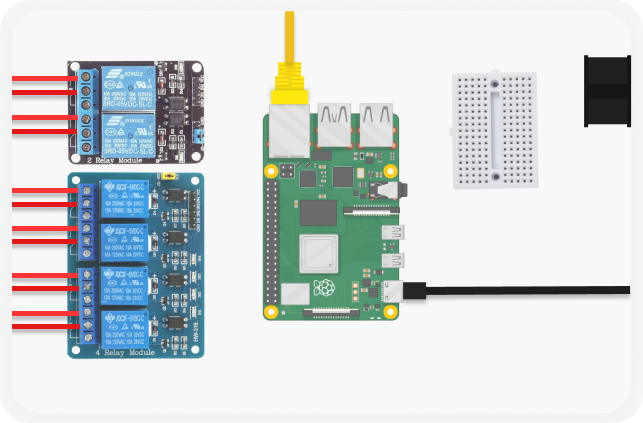
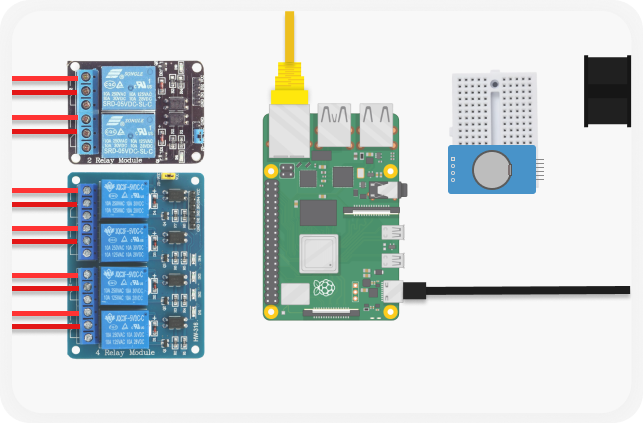
docu RTC added

Changed region(s): [[0.6843, 0.3381, 0.8398, 0.461]]

diff --git a/phsmachine_docu/docs/_page_physical.md b/phsmachine_docu/docs/_page_physical.md
@@ -20,9 +20,7 @@ Once PHS is installed in place. We can now install other components needed by PH
 
 > **NOTE** : Ignore the wires that are pre installed.
 
-<center>
-    <img src="https://senpai-coders.github.io/CAPSTONE-PHS-Machine/_media/phs_box_open.png">
-</center>
+![phs box open](_media/phs_box_open.png)
 
 Once opened. This is what PHS contains. It contains **Relays, Raspberry Pi, Breadboard, & Fan**.
 
@@ -30,40 +28,31 @@ Once opened. This is what PHS contains. It contains **Relays, Raspberry Pi, Brea
 
 PHS has its power adapter which is a **type c**. Pass it through the PHS port holes and connect it to the **C port** of Raspberry Pi.
 
-<center>
-    <img src="https://senpai-coders.github.io/CAPSTONE-PHS-Machine/_media/phs_power.png">
-</center>
+![imgs](_media/phs_power.png)
 
 ## Local Network 
 
 PHS need a **local network** so that the website can be accessable via local network on **any** devices that have a **web browser**. 
 
-<center>
-    <img src="https://senpai-coders.github.io/CAPSTONE-PHS-Machine/_media/network_topo.png">
-</center>
+![imgs](_media/network_topo.png)
+
 
 > **Note** : PHS Doesn't need a Internet, just a router that can function properly to create a local network. But if internet does exist, PHS will enable its feature **notification via email**.
 
 ## Connecting PHS to router
 
-<center>
-    <img src="https://senpai-coders.github.io/CAPSTONE-PHS-Machine/_media/catcable.png">
-</center>
+![imgs](_media/catcable.png)
 
 PHS comes with 1 **ethernet cable**. You can connect this ethernet cable to the router. The router will assign an **IP address** to the PHS once the router & PHS is turned on. This makes the PHS **accessible** from the Local Network
 
-<center>
-    <img src="https://senpai-coders.github.io/CAPSTONE-PHS-Machine/_media/phs_ether.png">
-</center>
+![imgs](_media/phs_ether.png)
 
 Connect the cable to the **Ethernet Port** of the Rasberry Pi and attatch the other end to the one of available **port** on the **Router**.
 
 
 ## Attatching Components / Devices 
 
-<center>
-    <img src="https://senpai-coders.github.io/CAPSTONE-PHS-Machine/_media/phs_relays.png">
-</center>
+![imgs](_media/phs_relays.png)
 
 By default, PHS have **6 relays**. These relays **controls** all the components that the system uses to perform it's duty in resolving heat stress. Components that can be attatch to the relays are devices that can be turn **on** or **off** only. These relay can handle up to **10A 250VAC** or **15A 125VAC**.
 
@@ -72,9 +61,7 @@ By default, PHS have **6 relays**. These relays **controls** all the components 
 
 > **WARNING** : Some of this component may range from **low voltage** to **high voltage**, so please be extra careful.
 
-<center>
-    <img src="https://senpai-coders.github.io/CAPSTONE-PHS-Machine/_media/phs_relay_diag.png">
-</center>
+![imgs](_media/phs_relay_diag.png)
 
 This is how relay works. It has **3 contact terminal** to connect to.
 
@@ -86,51 +73,37 @@ This is how relay works. It has **3 contact terminal** to connect to.
 
 By default, PHS has **2x2 Grid** on it's pov but you can expand it from the settings, each cell call the **solenoid valves** to open when the heat stress originate from one of them. This allows the flow of water to flow and create a **mist** to lower the pigs body temperature. These solenoid valves needs **12V** power to run.
 
-<center>
-    <img src="https://senpai-coders.github.io/CAPSTONE-PHS-Machine/_media/phs_solenoid_attatchment.png">
-</center>
+![imgs](_media/phs_solenoid_attatchment.png)
 
 This is how to attatch a solenoid valve to the relay.
 
-<center>
-    <img src="https://senpai-coders.github.io/CAPSTONE-PHS-Machine/_media/phs_solenoids.png">
-</center>
+![imgs](_media/phs_solenoids.png)
 
 Repeat the process to other 3 solenoid valves and it should look like this.
 
 ## The Water Pump ( Component, Optional )
 
-<center>
-    <img src="https://senpai-coders.github.io/CAPSTONE-PHS-Machine/_media/phs_pump.png">
-</center>
+![imgs](_media/phs_pump.png)
 
 By default, we provide  **12 volt water pump** because some piggery have their water provider a **weak water pressure** failing to create good mist. Water pump helps generate **high pressure** thus forming an ideal mist. But if the water pressure from their water provider is **high enough**, you can replace it with **another solenoid valve**. The image above shows the concept of how it should work.
 
-<center>
-    <img src="https://senpai-coders.github.io/CAPSTONE-PHS-Machine/_media/phs_relay_pump.png">
-</center>
+![imgs](_media/phs_relay_pump.png)
 
 This shows how the water pump should properly attatched to the relay.
 
 ## The Tubing ( Required )
 
-<center>
-    <img src="https://senpai-coders.github.io/CAPSTONE-PHS-Machine/_media/phs_tubing.png">
-</center>
+![imgs](_media/phs_tubing.png)
 
 Depends on how many mist **nozzle** and **solenoid** you'll have, the tubing also depends on that. This is a **simple example** on how you may do your tubing. You may repeat this to other nozzles or solenoid.
 
 ## The Nozzle ( Required )
 
-<center>
-    <img src="https://senpai-coders.github.io/CAPSTONE-PHS-Machine/_media/phs_nozzle.png">
-</center>
+![imgs](_media/phs_nozzle.png)
 
 You need to attatch the **nozzle** at the **end destination** of every tubes. This nozzle create **fine mist** that helps lower pig temperature.
 
-<center>
-    <img src="https://senpai-coders.github.io/CAPSTONE-PHS-Machine/_media/phs_tubing_nozzle.png">
-</center>
+![imgs](_media/phs_tubing_nozzle.png)
 
 This is how it should look after attatching
 
@@ -138,24 +111,18 @@ This is how it should look after attatching
 
 ## The Fan ( Component, Optional )
 
-<center>
-    <img src="https://senpai-coders.github.io/CAPSTONE-PHS-Machine/_media/phs_fan.png">
-</center>
+![imgs](_media/phs_fan.png)
 
 By default, we provide a **leaf style fan**. Other than using water to reduce pig body temperature, there should be a **dry area** where pig can rest. So fan helps **circulate air** and **lowers the pig temperature** while leaving a dry place for the pig to rest. You should aim and place it where the pig can't reach it.
 
 
-<center>
-    <img src="https://senpai-coders.github.io/CAPSTONE-PHS-Machine/_media/phs_relay_fan.png">
-</center>
+![imgs](_media/phs_relay_fan.png)
 
 This shows how the fan should properly attatched to the relay.
 
 ## Example result when done
 
-<center>
-    <img src="/docs/_media/final_phs.png">
-</center>
+![imgs](_media/final_phs.png)
 
 ## DONE
 

diff --git a/phsmachine_docu/docs/README.md b/phsmachine_docu/docs/README.md
@@ -10,27 +10,21 @@ PHS machine doesn't need any internet connection to function. The PHS runs on lo
 
 ## Technology Used
 
-<center>
-    <img src="https://senpai-coders.github.io/CAPSTONE-PHS-Machine/_media/techs.png">
-</center>
+![techused](_media/techs.png)
 
 The machine uses machine learning & image processing technology to detect and resolve the heatstress problem on pigs
 
 
 ## Web Technology Used
 
-<center>
-    <img src="https://senpai-coders.github.io/CAPSTONE-PHS-Machine/_media/webtech.png">
-</center>
+![webtech](_media/webtech.png)
 
 The machine uses Mongodb for database that uses json like documents/record for storing data. NextJs that include Front-end (React.js) for dynamic and reusable web components. And Flask for realtime detection monitoring and PHS machine controls.
 
 
 ## Compatibility
 
-<center>
-    <img src="https://senpai-coders.github.io/CAPSTONE-PHS-Machine/_media/rpilogo.png">
-</center>
+![rasplogo](_media/rpilogo.png)
 
 PHS Machine utilizes **Raspberry Pi 4B** Architecture:**aarch64** only. Due to fund limitation, we only tested the system to run on **Pi 4B 8Gb** running version **Debian GNU/Linux 11 (bullseye) 64bit**. 
 
@@ -44,16 +38,13 @@ We also attempted to run it using **Ubuntu 64bit** (PHS does not work) but it la
 
 ## How PHS Works
 
-<center>
-    <img src="https://senpai-coders.github.io/CAPSTONE-PHS-Machine/_media/Conceptual.png">
-</center>
+![how](_media/Conceptual.png)
 
 The image above shows the **Conceptual Framework** of PHSM. The PHS rely on it's 2 sensor. The **Camera** and **Thermal Camera**.
 
 ### Thermal Radiation / Infrared Radiation
-<center>
-    <img src="https://senpai-coders.github.io/CAPSTONE-PHS-Machine/_media/EMSpec.jpg">
-</center>
+
+![infra](_media/EMSpec.jpg)
 
 <center>
     <sub><sup>(Credit: NASA's Imagine the Universe)</sup></sub>
@@ -66,6 +57,18 @@ Human **cannot** see infrared on the naked eye. But we can **feel** it in the fo
 ### Cooling the pig
 
 PHS uses **Fan & Mist** to help reduce the pigs body **temperature**. PHS decide when to activate these components depending on the analyzed data from the camera & thermal camera.
+
+### Yolov5 custom trained
+
+PHS used a custom trained Yolov5 that is only trained to detect pig. The model is trained using the dataset we created in roboflow. It contains **11,374 images** of pigs. 
+
+- **Training Set** : 9.9k images ( 87% )
+- **Validation Set** : 944 images ( 8% )
+- **Testing Set Set** : 482 images ( 4% )
+
+The result of yolov5 custom trained model is shown bellow
+
+![yoloresult](_media/results.png)
 
 ### Custom CNN for identifying **Heat Stress**
 

diff --git a/phsmachine_docu/docs/_page_error_codes.md b/phsmachine_docu/docs/_page_error_codes.md
@@ -61,3 +61,28 @@ We **highly encourage** to report **errors** that are **not** in this manual/doc
 
 - Description of what wen't wrong (on your own words)
 - Date of error
+
+# Errors/Problems with no error code
+
+## Time is not correct
+
+The Raspberry Pi doesn't have a **Real Time Clock Module (RTC)**, but possible to add an RTC module via **i2C**. The RTC module has a standard **CMOS Battery** so it doesn't loose it's time even if the PHS is unpluged.
+
+![RTC Module Real Image](_media/rl_rtc.jpg)
+
+RTC Pinout
+![RTC Pinout](_media/RTC_PINOUTS.png)
+
+> **Note** : remember the arrangement of the wire. This is the i2c bus connection which include 4 wires connecting to SCL, SDA, VCC, GND. You might be required to replace the wires sometime in the PHS lifespan.
+
+Ways to check what went wrong. 
+
+1. You must connect via SSH with your Laptop/PC that is connected on the same local network which PHS is connected. [Access Via SSH](_page_access_auth?id=accessing-via-ssh)
+2. Try executing ``` sudo i2cdetect -y 1 ```
+this should include address of **57** & **68**
+if not the RTC wires have damage or the battery need to be replaced.
+![i2caddre](_media/i2caddresses.png)
+3. Check if wires on RTC is damaged, try moving the wire & replace if necessary. Repeat step 2 to check the RTC
+
+4. Replace by a standard CMOS Battery. After replacing try doing step 2
+5. If replacing the batter solved the problem, please connect the PHS machine to a router that has an Internet for it to be able to obtain a correct time.
